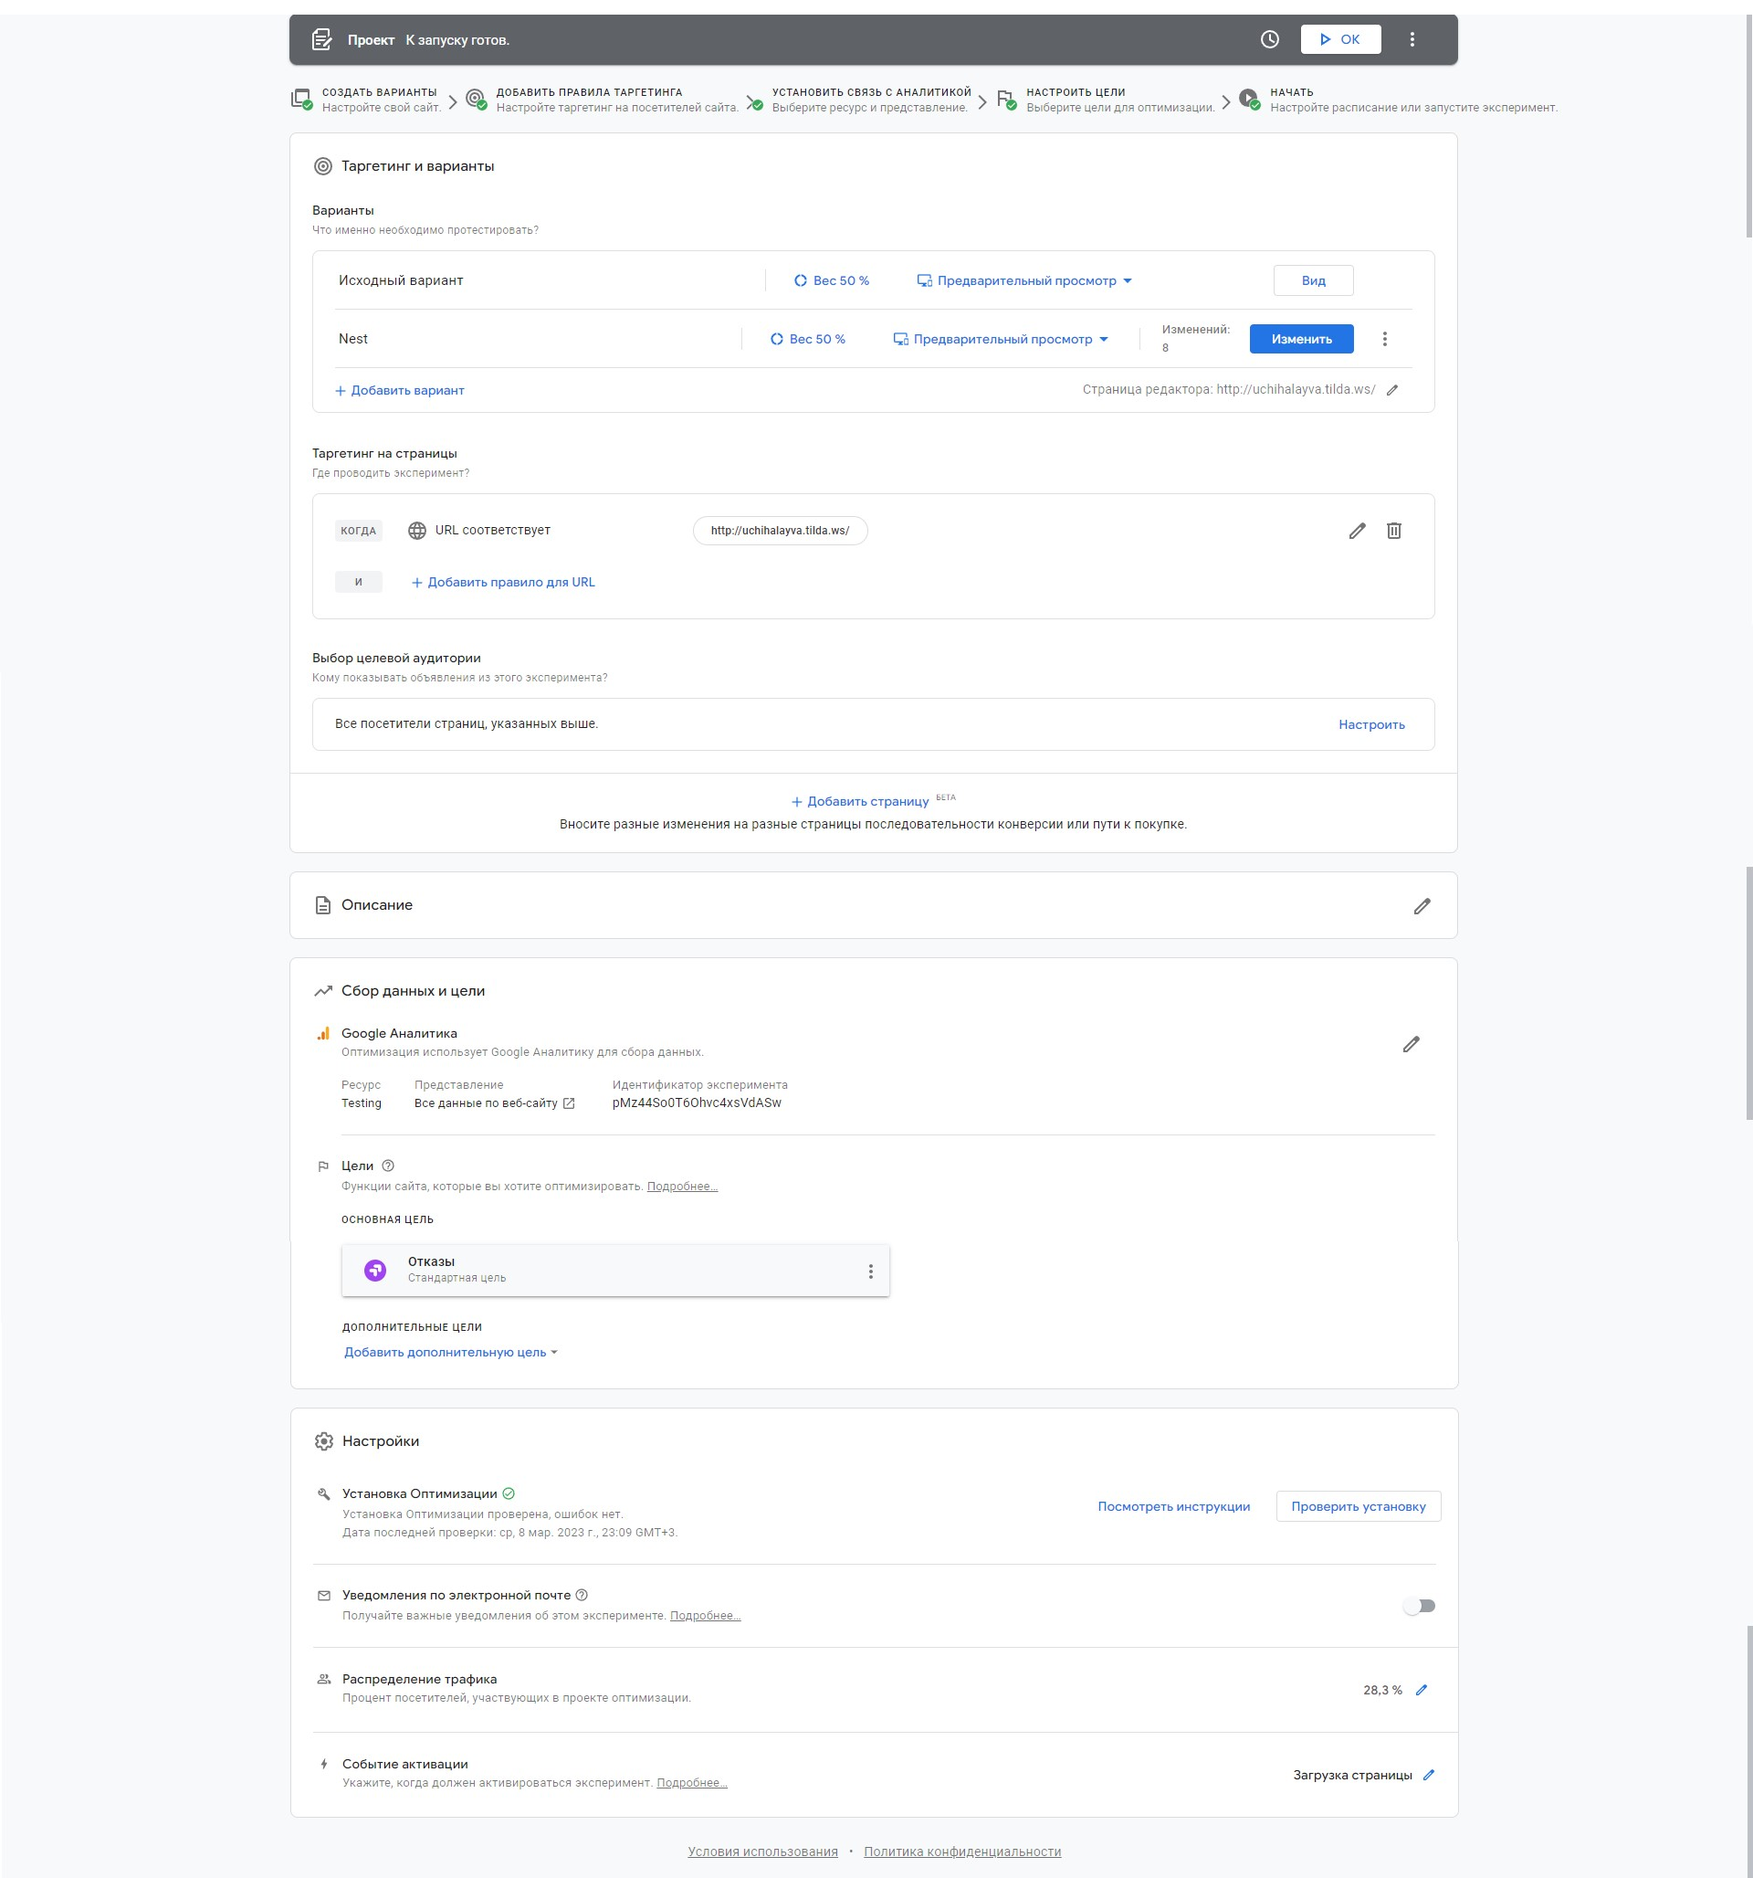
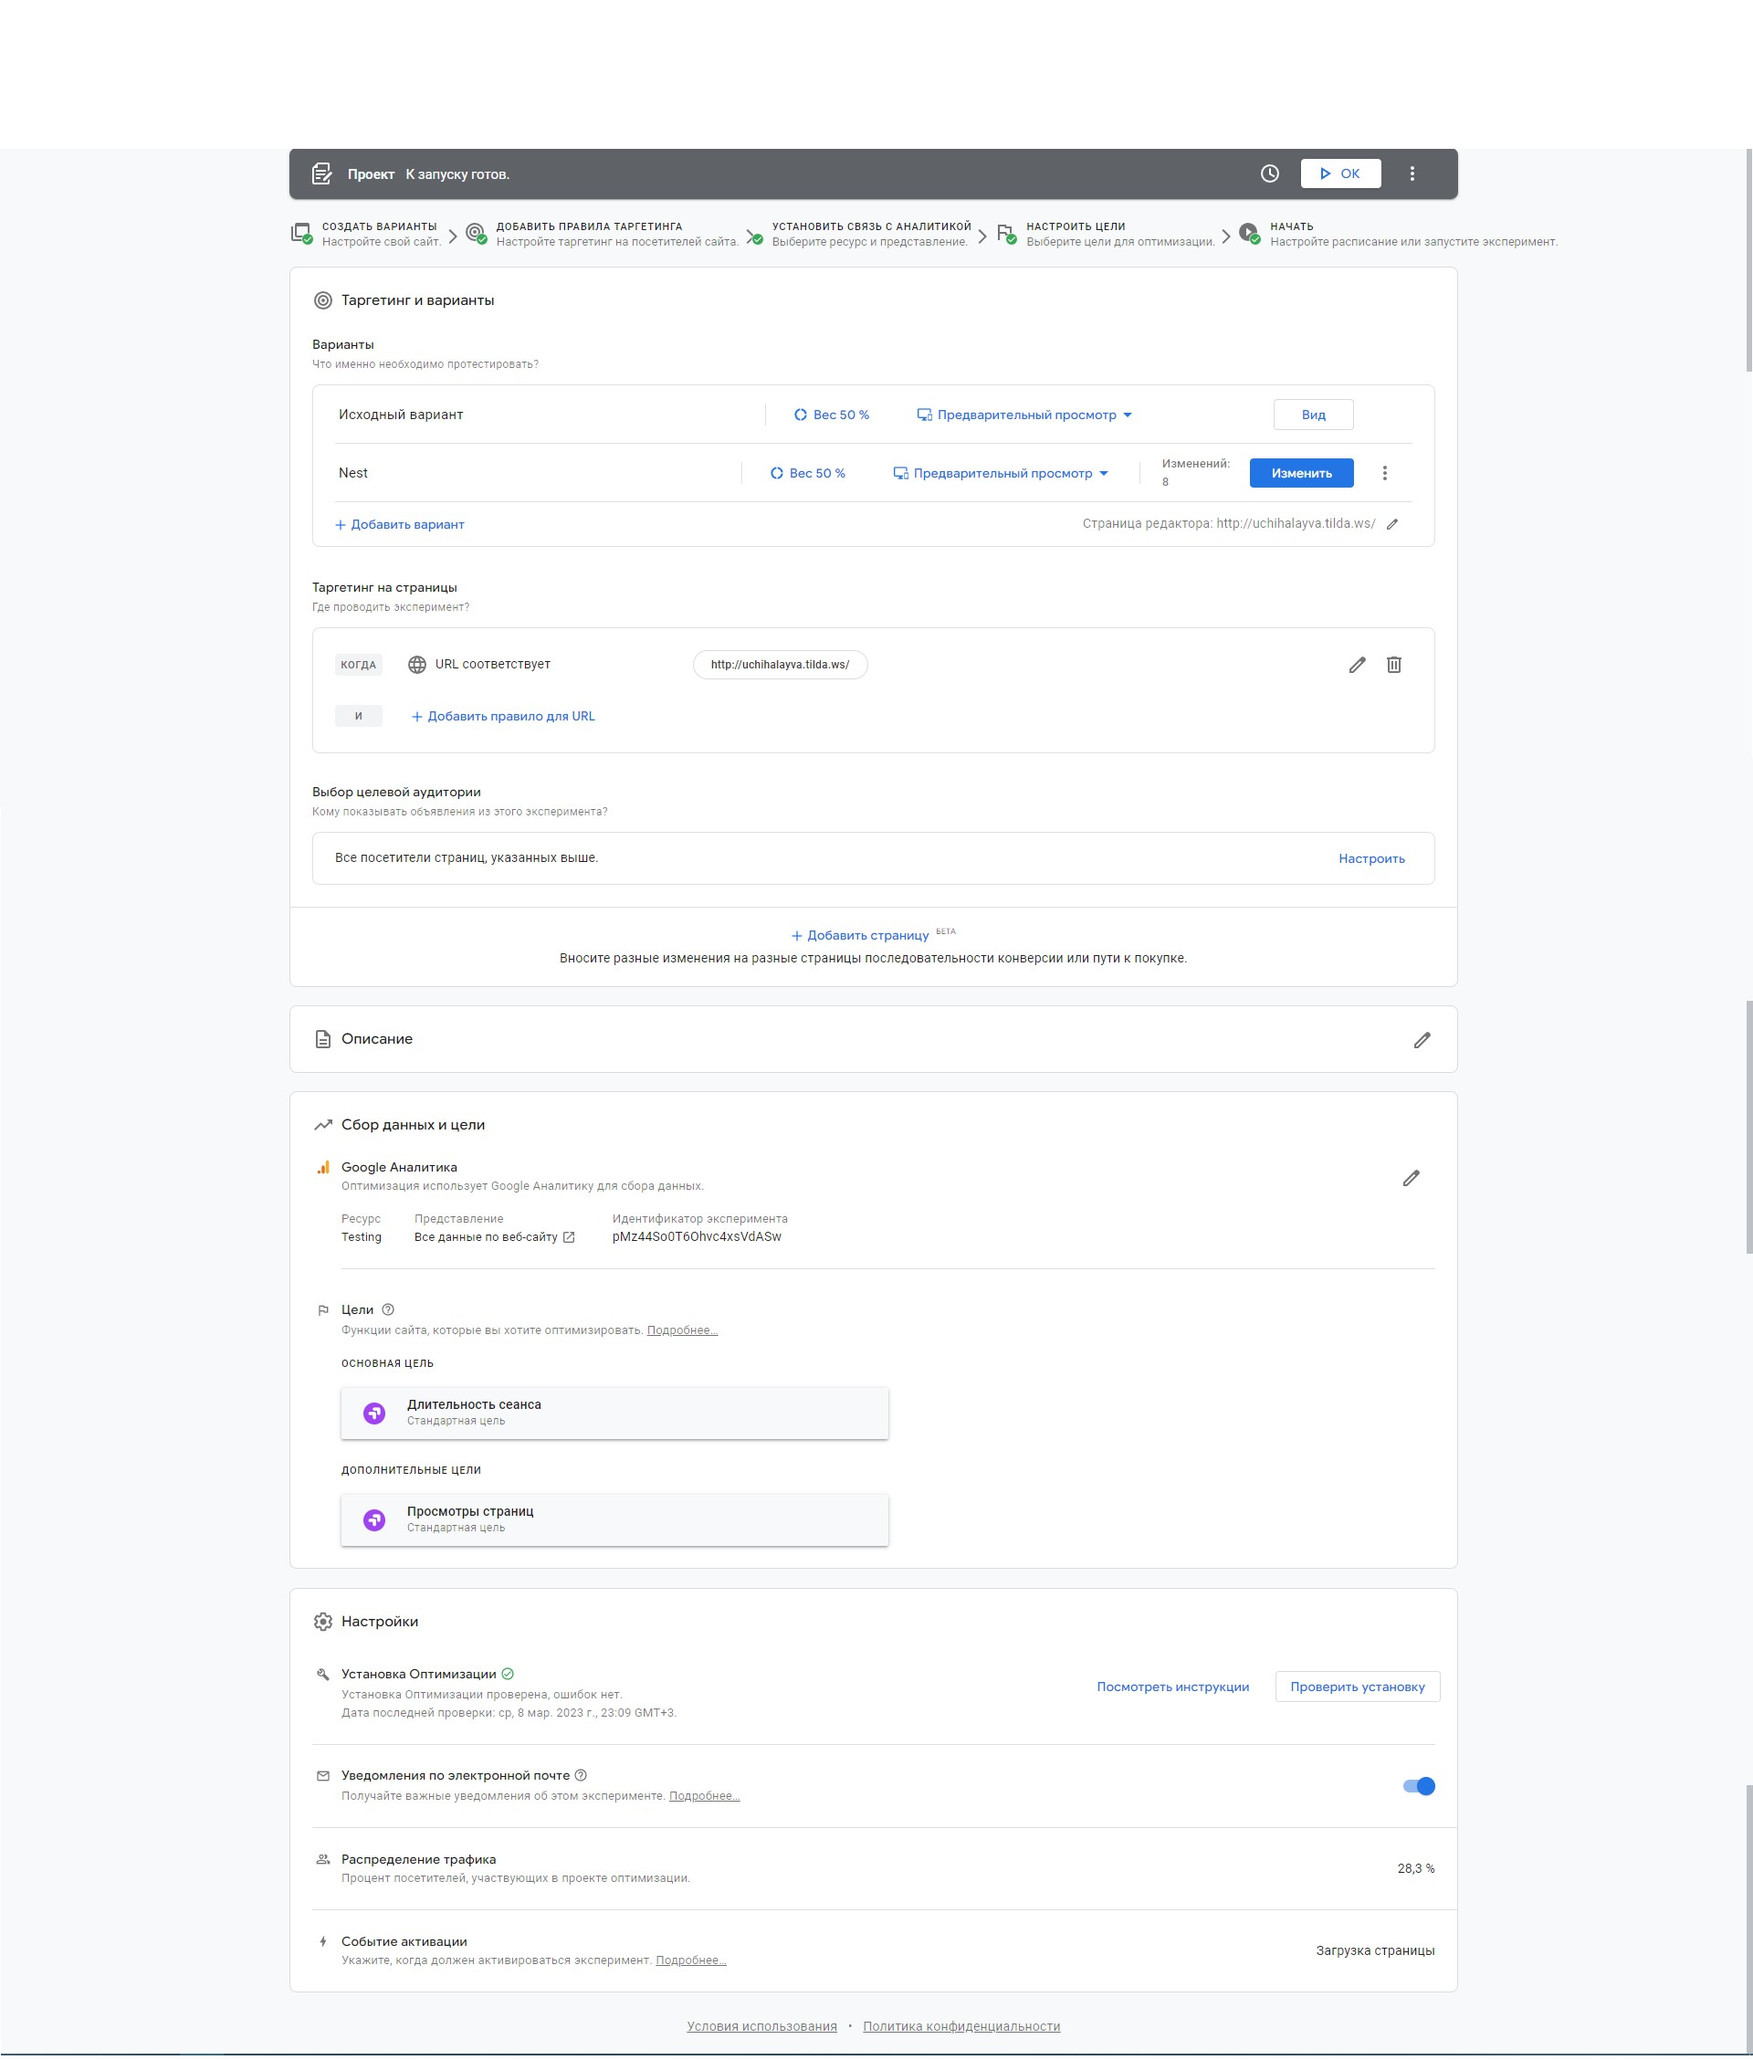
DZ3

diff --git a/DZ3.md b/DZ3.md
@@ -1,5 +1,57 @@
 # Урок 3
 
-<div style="overflow-y: scroll;height:300px;">
-    <img src=".\Screen1.jpg" style="min-width:500px;min-height:617px">
-</div>
+## Шаблон
+
+### Гипотеза
+
+Если заменить изображение
+![До](P1.png)
+На
+![До](P2.png)
+И увеличить и изменить цвет кнопки
+![До](P3.png)
+На
+![До](P4.png)
+то увеличится длительность просмотра, и кол-во повторных заходов на страницу  
+
+### Что делаем
+
+Контрольная версия:
+
+- Оставляем текущий вариант.
+
+Тестовая версия:
+
+- Изменяем изображение и цвет, размер кнопки.
+
+### На каких пользователях тестируем
+
+- на всех пользователях.
+
+### Влияет на метрики
+
+- Длительность просмотра страницы.  
+- Кол-во повторных заходов.
+
+### План действий
+
+- Если наш эксперимент будет положительным, и мы зафиксируем ожидаемое улучшение в ключевых метриках и не посадим добавочные, то масштабируем изменение и «выкатываем» его на всех пользователей.  
+- Если основные метрики падают или растут недостаточно либо добавочные метрики падают, откатываем эксперимент.
+
+## Скришоты
+
+### Настройка эксперимента
+
+![Изи](.\Screen1.jpg)
+
+### Запуск
+
+![Изи](.\Screen2.jpg)
+
+### Работа
+
+![Изи](.\Screen3.jpg)
+
+### Отчет
+
+![Изи](.\Screen4.jpg)
